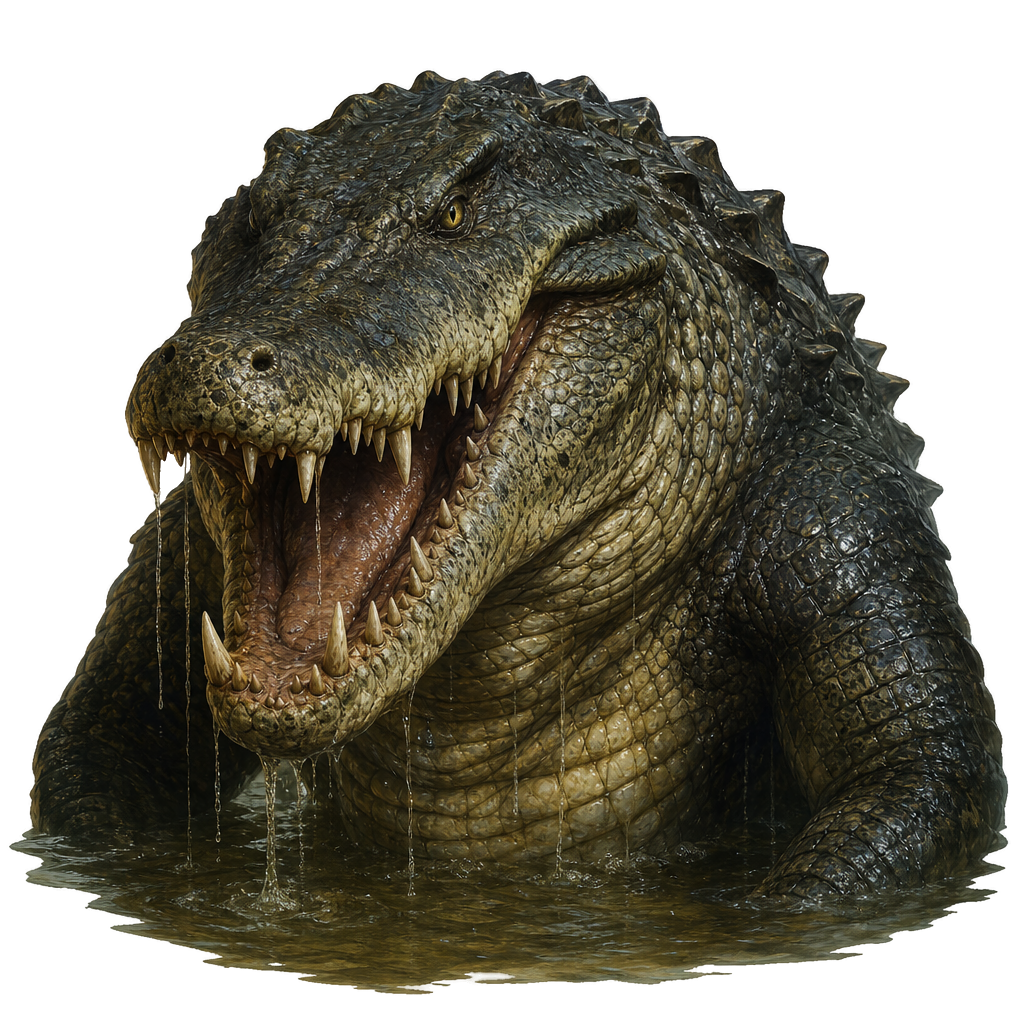
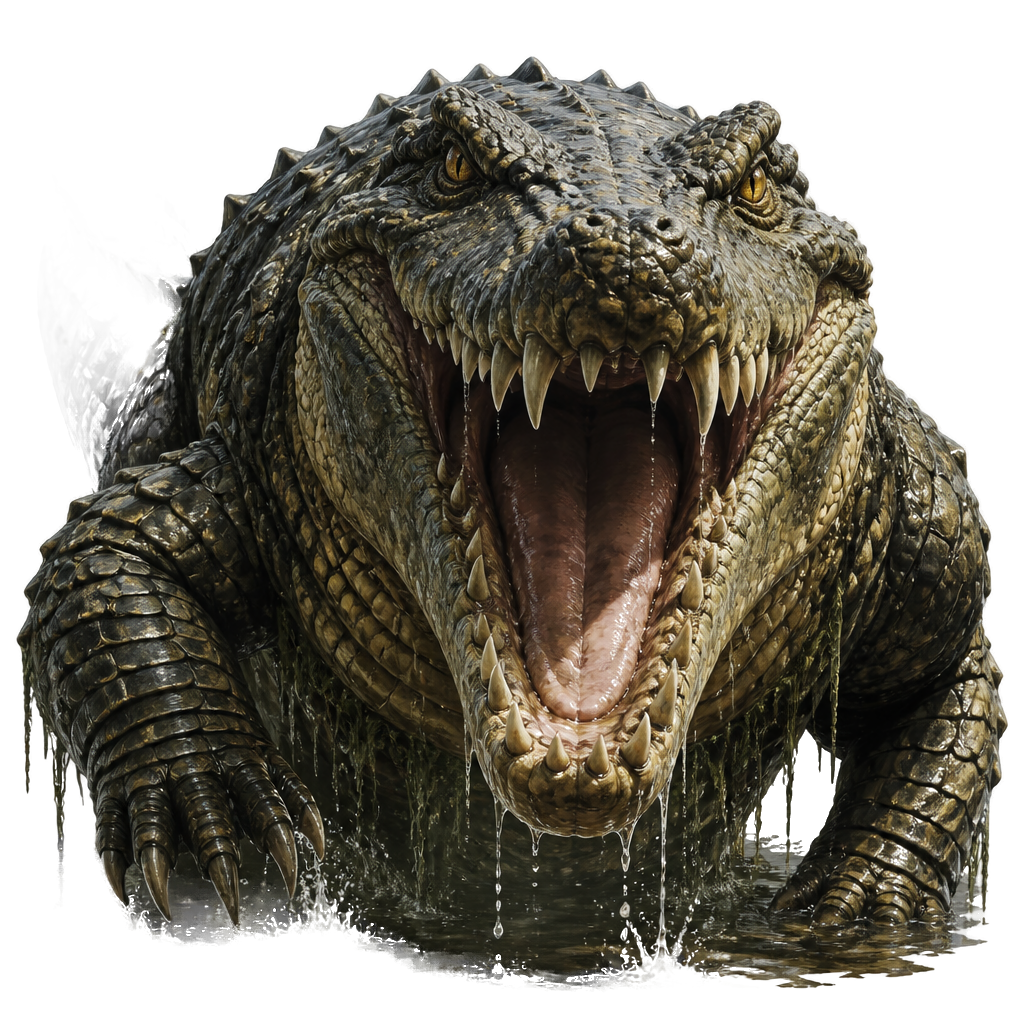
feat: fantasy names disabled + Roman numerals + 36 new enemy PNGs (batch 71/86)
USER REPORTOU 2026-05-17: "porque os inimigos estão com nomes como
CAIXUS para um mímico, GRIZZLE para um GOBLIN, DRUGAZ para um orc"

FANTASY NAMES — DISABLED por padrão:
- _pickEnemyFantasyName em combate-data-shared.js agora retorna null
  por padrão (flag window._ENEMY_FANTASY_NAMES_ENABLED pra reativar)
- Caller em combate.html agora usa species + Roman numeral:
  "Orc I", "Orc II", "Orc III" em vez de "Grarok", "Zharak", "Drugaz"
- ENEMY_NAME_POOLS preservado pra reativação fácil se user quiser depois

ENEMY PNG BATCH (background, atual 71/86):
- 3 regens user-requested: orc-guerreiro, lobo-da-tundra, crocodilo
- 83 missing variantes de src/game/enemies/ (audit revelou 100 enemies
  no Python, só 35 com PNG antes)
- Categorias geradas: gigantes (5), mortos-vivos (8 ghouls/wraiths/etc),
  bestas (12 lobos/ursos/etc), monstros lendários (8 dragões/hidras/etc),
  cultistas/bandidos (4 variantes), monstros únicos (10+)

Synced via sync_combate_to_webapp.py.

diff --git a/combat2/combate.html b/combat2/combate.html
@@ -1,5 +1,5 @@
 <!DOCTYPE html>
-<!-- SYNCED FROM simuladores/combate.html AT 2026-05-17T22:59:07Z — do not edit directly, edit source -->
+<!-- SYNCED FROM simuladores/combate.html AT 2026-05-17T23:08:06Z — do not edit directly, edit source -->
 
 
 <!--
@@ -12924,12 +12924,22 @@ function randomEnemies() {
            enfrentar este inimigo em combate solo. Heuristica simples
            baseada em HP + CA + bonus de ataque. */
         var sugLvl = Math.max(1, Math.round((b.hp + (b.ac - 10) * 2 + b.atk) / 10));
-        // 2026-04-27 USER RULE: nome fantasia em vez de "Orc 1, Orc 2".
-        // Pool de 8 nomes em ENEMY_NAME_POOLS (combate-data-shared.js).
-        // Fallback: se species não tem pool, usa "Species" puro (sem número).
+        // 2026-04-27: tentativa de nomes fantasia (Snik, Grarok, Drugaz...) via
+        // ENEMY_NAME_POOLS. Mantido como opt-in.
+        // 2026-05-17 USER FEEDBACK: nomes fantasia confundiam (CAIXUS pra
+        // mímico, etc). DISABLED por padrão — usa species + Roman numeral.
+        // Pra reativar fantasy names: window._ENEMY_FANTASY_NAMES_ENABLED = true.
+        var _ROMAN = ['', ' I', ' II', ' III', ' IV', ' V', ' VI', ' VII', ' VIII'];
         var _fName = (typeof _pickEnemyFantasyName === 'function')
             ? _pickEnemyFantasyName(b.n, i) : null;
-        var _displayName = (n > 1 && _fName) ? _fName : b.n;
+        var _displayName;
+        if (n > 1 && _fName) {
+            _displayName = _fName;  // opt-in fantasy name
+        } else if (n > 1) {
+            _displayName = b.n + (_ROMAN[i] || ' ' + (i + 1));  // "Orc I", "Orc II"
+        } else {
+            _displayName = b.n;  // single enemy: just "Orc"
+        }
         var enemy = { t: 'e', n: _displayName,
                   hp: b.hp, mhp: b.hp, ac: b.ac, atk: b.atk, die: b.die,
                   dmgMod: b.dmgMod || 0,
